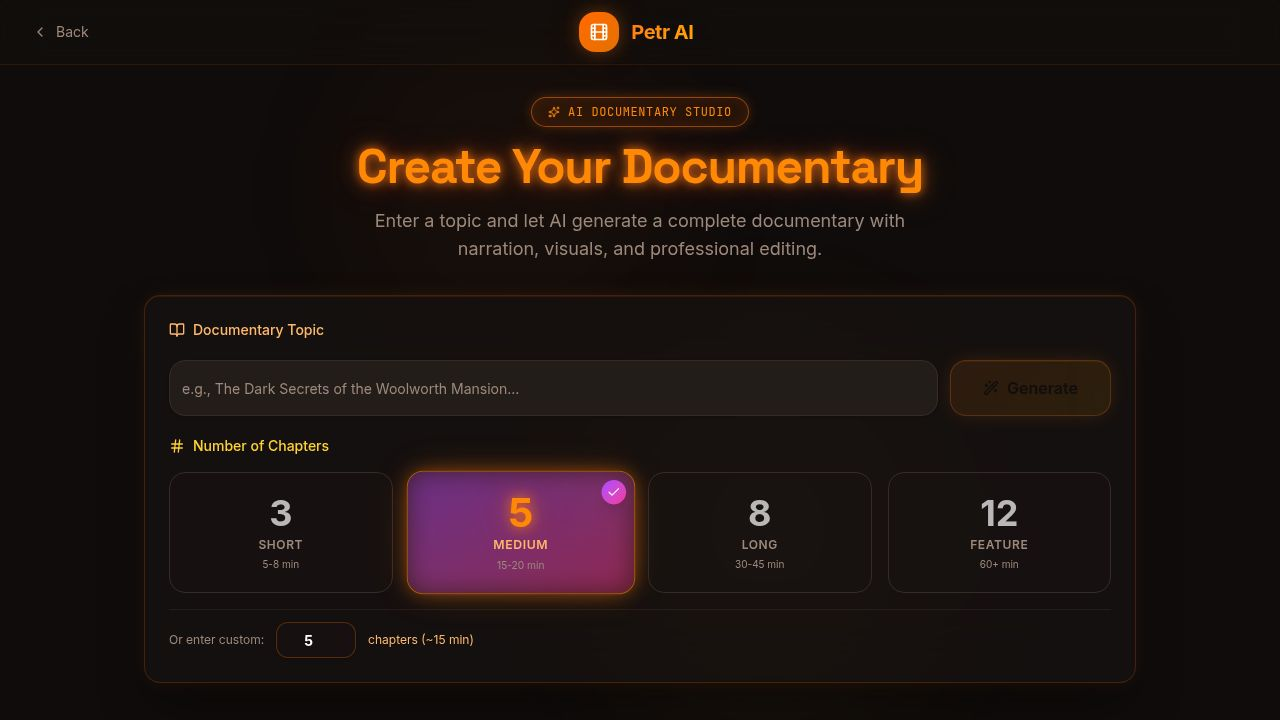
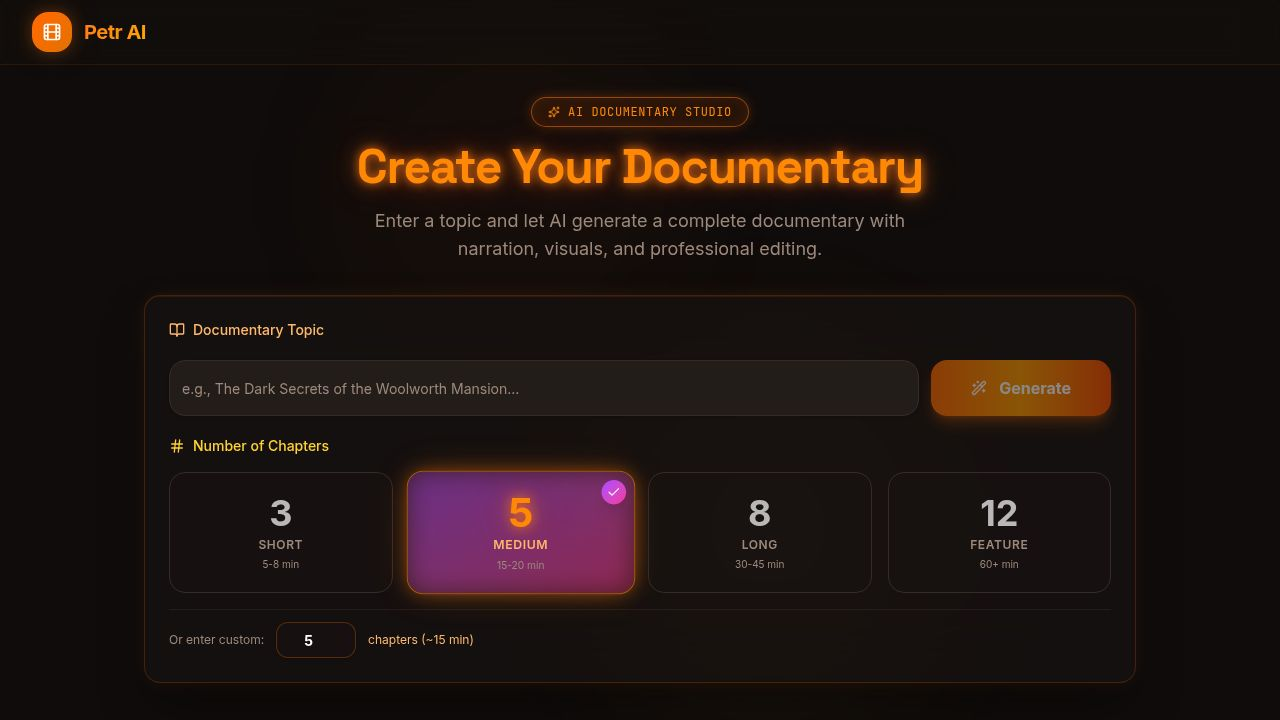
Integrate a new sidebar navigation with documentary creation and project management features
Add a new `WorkspaceSidebar` component with navigation links for creating documentaries, viewing generated videos, and accessing saved content. Update `DocumentaryMaker` to use the new sidebar layout.

Replit-Commit-Author: Agent
Replit-Commit-Session-Id: 4a53d9e8-1a16-4fe7-a198-8ac865c68398
Replit-Commit-Checkpoint-Type: intermediate_checkpoint
Replit-Commit-Event-Id: c0b142f2-037e-412a-8c7e-a196d0deef90
Replit-Commit-Screenshot-Url: https://storage.googleapis.com/screenshot-production-us-central1/54c92e95-94fe-4a11-bba0-06f1f2d0e147/4a53d9e8-1a16-4fe7-a198-8ac865c68398/4P7QilT
Replit-Helium-Checkpoint-Created: true

Changed region(s): [[0.7188, 0.4889, 0.875, 0.6111], [0.4375, 0.0, 0.5625, 0.0917], [0.0, 0.0, 0.125, 0.0917]]

diff --git a/client/src/components/layout/workspace-sidebar.tsx b/client/src/components/layout/workspace-sidebar.tsx
@@ -1,0 +1,145 @@
+import { useState } from "react";
+import { Link, useLocation } from "wouter";
+import { cn } from "@/lib/utils";
+import { 
+  Film, 
+  PlusCircle, 
+  Video, 
+  Save,
+  ChevronLeft,
+  ChevronRight,
+  FolderOpen,
+  Sparkles
+} from "lucide-react";
+import { Button } from "@/components/ui/button";
+
+interface WorkspaceSidebarProps {
+  children: React.ReactNode;
+}
+
+export function WorkspaceSidebar({ children }: WorkspaceSidebarProps) {
+  const [location] = useLocation();
+  const [isCollapsed, setIsCollapsed] = useState(false);
+
+  const navItems = [
+    { 
+      icon: PlusCircle, 
+      label: "Create Documentary", 
+      href: "/create",
+      description: "Start a new documentary"
+    },
+    { 
+      icon: FolderOpen, 
+      label: "Video Generated", 
+      href: "/projects",
+      description: "View all projects"
+    },
+    { 
+      icon: Save, 
+      label: "Saved Videos", 
+      href: "/saved",
+      description: "Cloud storage"
+    },
+  ];
+
+  return (
+    <div className="flex h-screen w-full bg-[#0a0a0f] overflow-hidden">
+      <aside 
+        className={cn(
+          "border-r border-orange-500/10 bg-[#0d0d14] flex flex-col transition-all duration-300 ease-in-out relative",
+          isCollapsed ? "w-16" : "w-64"
+        )}
+      >
+        <div className={cn(
+          "p-4 flex items-center border-b border-orange-500/10",
+          isCollapsed ? "justify-center" : "gap-3"
+        )}>
+          <div className="h-10 w-10 rounded-xl bg-gradient-to-br from-orange-500 to-amber-600 flex items-center justify-center flex-shrink-0 shadow-lg shadow-orange-500/20">
+            <Film className="h-5 w-5 text-white" />
+          </div>
+          {!isCollapsed && (
+            <div className="overflow-hidden">
+              <span className="font-bold text-lg tracking-tight bg-gradient-to-r from-orange-400 to-amber-500 bg-clip-text text-transparent">
+                Petr AI
+              </span>
+              <p className="text-[10px] text-muted-foreground">Documentary Studio</p>
+            </div>
+          )}
+        </div>
+
+        <Button
+          variant="ghost"
+          size="icon"
+          onClick={() => setIsCollapsed(!isCollapsed)}
+          className="absolute -right-3 top-16 h-6 w-6 rounded-full border border-orange-500/30 bg-[#0d0d14] hover:bg-orange-500/10 z-50"
+        >
+          {isCollapsed ? (
+            <ChevronRight className="h-3 w-3 text-orange-400" />
+          ) : (
+            <ChevronLeft className="h-3 w-3 text-orange-400" />
+          )}
+        </Button>
+
+        <nav className="flex-1 px-2 py-4 space-y-1">
+          {navItems.map((item) => {
+            const isActive = location === item.href || 
+              (item.href === "/create" && location === "/");
+            
+            return (
+              <Link key={item.href} href={item.href}>
+                <div
+                  className={cn(
+                    "flex items-center gap-3 px-3 py-3 rounded-xl text-sm font-medium transition-all duration-200 group cursor-pointer",
+                    isActive
+                      ? "bg-gradient-to-r from-orange-500/20 to-amber-500/10 text-orange-400 border border-orange-500/30"
+                      : "text-muted-foreground hover:bg-white/5 hover:text-white border border-transparent",
+                    isCollapsed && "justify-center px-2"
+                  )}
+                  data-testid={`nav-${item.href.replace("/", "")}`}
+                >
+                  <item.icon className={cn(
+                    "h-5 w-5 flex-shrink-0",
+                    isActive ? "text-orange-400" : "text-muted-foreground group-hover:text-orange-400"
+                  )} />
+                  {!isCollapsed && (
+                    <div className="flex-1 min-w-0">
+                      <span className="block truncate">{item.label}</span>
+                      <span className="text-[10px] text-muted-foreground truncate block">
+                        {item.description}
+                      </span>
+                    </div>
+                  )}
+                </div>
+              </Link>
+            );
+          })}
+        </nav>
+
+        <div className={cn(
+          "p-3 border-t border-orange-500/10",
+          isCollapsed && "flex justify-center"
+        )}>
+          {!isCollapsed ? (
+            <div className="bg-gradient-to-br from-orange-500/10 to-amber-500/5 rounded-xl p-3 border border-orange-500/20">
+              <div className="flex items-center gap-2 mb-2">
+                <Sparkles className="h-4 w-4 text-orange-400" />
+                <span className="text-xs font-semibold text-orange-300">Pro Tip</span>
+              </div>
+              <p className="text-[10px] text-muted-foreground leading-relaxed">
+                Your progress is auto-saved. Refresh anytime and resume where you left off.
+              </p>
+            </div>
+          ) : (
+            <div className="h-8 w-8 rounded-lg bg-orange-500/10 flex items-center justify-center">
+              <Sparkles className="h-4 w-4 text-orange-400" />
+            </div>
+          )}
+        </div>
+      </aside>
+
+      <main className="flex-1 flex flex-col overflow-hidden relative">
+        {children}
+      </main>
+    </div>
+  );
+}

diff --git a/client/src/pages/documentary-maker.tsx b/client/src/pages/documentary-maker.tsx
@@ -38,6 +38,7 @@ import {
   Users
 } from "lucide-react";
 import { cn } from "@/lib/utils";
+import { WorkspaceSidebar } from "@/components/layout/workspace-sidebar";
 
 interface StoryFramework {
   id: number;
@@ -488,28 +489,15 @@ export default function DocumentaryMaker() {
   }, [generationLogs]);
 
   return (
-    <div className="min-h-screen bg-background text-white relative overflow-hidden">
-      {/* Animated background effects */}
-      <div className="absolute inset-0 bg-[radial-gradient(ellipse_at_top,_var(--tw-gradient-stops))] from-orange-500/10 via-amber-500/5 to-transparent pointer-events-none" />
-      <div className="absolute inset-0 bg-[radial-gradient(ellipse_at_bottom_right,_var(--tw-gradient-stops))] from-amber-500/10 via-transparent to-transparent pointer-events-none" />
-      <div className="absolute top-0 left-1/4 w-96 h-96 bg-orange-500/5 rounded-full blur-3xl animate-pulse" />
-      <div className="absolute bottom-0 right-1/4 w-96 h-96 bg-amber-500/5 rounded-full blur-3xl animate-pulse" style={{ animationDelay: '1s' }} />
-      
-      <header className="relative z-10 border-b border-orange-500/10 backdrop-blur-xl bg-card/30">
-        <div className="max-w-7xl mx-auto px-4 sm:px-6 lg:px-8">
-          <div className="flex items-center justify-between h-16">
-            <div className="flex items-center gap-3">
-              <div className="w-10 h-10 rounded-xl bg-gradient-to-br from-orange-500 to-amber-600 flex items-center justify-center neon-glow">
-                <Film className="h-5 w-5 text-white" />
-              </div>
-              <span className="font-bold text-xl tracking-tight gradient-text">Petr AI</span>
-            </div>
-            <div className="w-16" />
-          </div>
-        </div>
-      </header>
+    <WorkspaceSidebar>
+      <div className="min-h-screen bg-background text-white relative overflow-auto">
+        {/* Animated background effects */}
+        <div className="absolute inset-0 bg-[radial-gradient(ellipse_at_top,_var(--tw-gradient-stops))] from-orange-500/10 via-amber-500/5 to-transparent pointer-events-none" />
+        <div className="absolute inset-0 bg-[radial-gradient(ellipse_at_bottom_right,_var(--tw-gradient-stops))] from-amber-500/10 via-transparent to-transparent pointer-events-none" />
+        <div className="absolute top-0 left-1/4 w-96 h-96 bg-orange-500/5 rounded-full blur-3xl animate-pulse" />
+        <div className="absolute bottom-0 right-1/4 w-96 h-96 bg-amber-500/5 rounded-full blur-3xl animate-pulse" style={{ animationDelay: '1s' }} />
 
-      <div className="relative z-10 max-w-5xl mx-auto py-8 px-4 space-y-8">
+        <div className="relative z-10 max-w-5xl mx-auto py-8 px-4 space-y-8">
         
         {/* Header */}
         <div className="text-center space-y-4">
@@ -1241,6 +1229,7 @@ export default function DocumentaryMaker() {
           </div>
         </div>
       )}
-    </div>
+      </div>
+    </WorkspaceSidebar>
   );
 }
